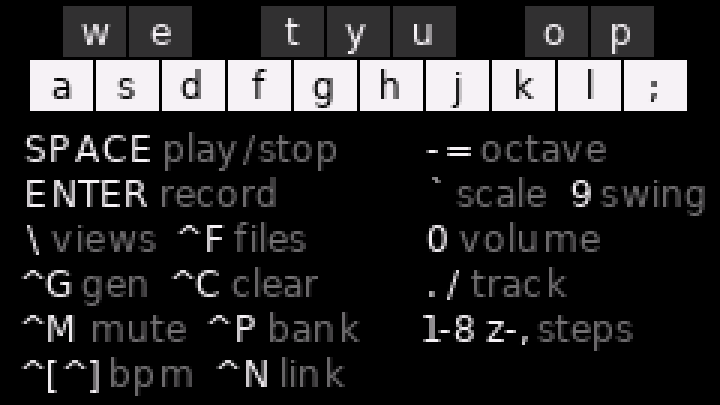
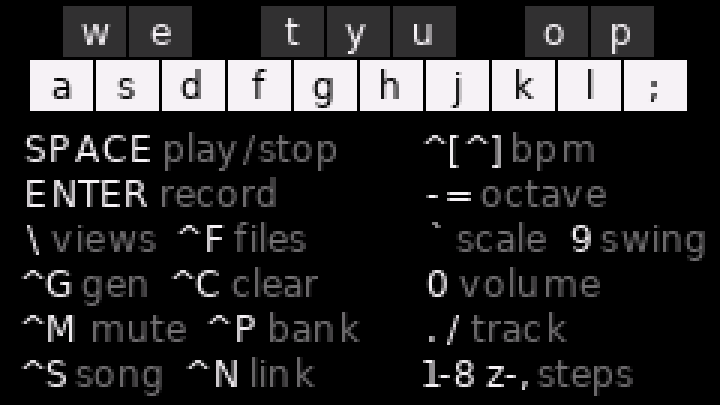
opcp_iface: the door an outside program comes in by
There was already a surface here. It just had no name: one caller reached
into op-cp at 95 places across four modules, so op-cp could not tell which
of its internals somebody else depended on, and the caller could not tell
which were safe. Two of them were not. The tiny-MHS layer was assigning
A.TRIM and C.CH_TRIM — module constants, one of them a dict in the file
whose own header says it holds no state — because that was the only way to
set a per-track gain. set_track_trim() and opcp_audio.set_trim() are where
that belongs, and both tables now move together, which they did not
reliably before: a caller that set one and not the other got a mix that
changed when the kit failed to load.

It sits BESIDE opcp_keys, not above it, and that is the whole design. The
human's keyboard and a program are siblings — two ways into the same
sequencer — so this speaks op-cp's language rather than a caller's.
changes() says "the volume moved", never "mix.master_gain changed".
Nothing in op-cp imports it; a standalone instrument never loads it.

changes() is a list rather than a method per field because the hand-written
version failed twice in one session, the same way both times: somebody adds
a key, forgets to mirror it, and a reading quietly disagrees with the
instrument. Once it was a muted device that still read as audible. Once it
was ctrl+S moving the banks with nothing in the log. Adding a field is one
entry in WATCHED now.
[…]

diff --git a/lib/opcp_iface.py b/lib/opcp_iface.py
@@ -1,0 +1,254 @@
+# OP-CP — the surface an outside program is allowed to drive.
+#
+# Everything here is something op-cp already did; nothing here is new
+# behaviour. What is new is that it has a NAME. Before this module the only
+# statement of "what can be driven from outside" was 95 references to
+# S.pat, Q.stop, C.VOLS and friends, spread through a caller's source — so
+# op-cp could not tell which of its internals were load-bearing for somebody
+# else, and a caller could not tell which were safe to touch. Two of them
+# were not: the tiny-MHS layer was assigning A.TRIM and C.CH_TRIM, module
+# constants in a file whose own docs say "no state". set_track_trim() is
+# where that belongs.
+#
+# This module does NOT import anything above op-cp and knows nothing about
+# who is calling. It is a lens on op-cp's own state in op-cp's own words —
+# "the volume moved", not "mix.master_gain changed". Whoever is driving is
+# responsible for translating that into their own vocabulary.
+#
+# Layering: sits beside opcp_keys, one above the sequencer. The human's
+# keyboard and an outside program are siblings, and this is the sibling's
+# door.
+
+import opcp_audio as A
+import opcp_conf as C
+import opcp_seq as Q
+from opcp_state import S
+
+
+# ------------------------------------------------------------------ reading
+
+def transport():
+    return {"playing": S.playing, "step": S.play_step,
+            "bpm": S.bpm, "swing": S.swing}
+
+
+def pattern():
+    return {"bank": S.pat, "banks": C.PATTERNS, "steps": C.STEPS,
+            "chain": S.chain}
+
+
+def steps(bank=None, track=None):
+    """One track of one bank, as a list. Defaults to what is selected."""
+    b = S.pat if bank is None else bank
+    t = S.track if track is None else track
+    return S.patterns[b][t]
+
+
+def music():
+    return {"root": S.root, "scale": C.SCALES[S.scale_i][0],
+            "octaves": list(S.octave)}
+
+
+def mix():
+    """Per-track mutes, and where the volume key currently stands.
+
+    `volume` is the index into the ladder, `gain` the fraction of full scale
+    it means. Index 0 is silence — the instrument can be muted from its own
+    keyboard, and a caller that reports otherwise is lying about a room.
+    """
+    return {"muted": list(S.muted), "volume": S.vol_i,
+            "steps": len(C.VOLS),
+            "gain": C.VOLS[S.vol_i] / float(C.VOLS[-1])}
+
+
+def storage():
+    """Where saves land, and which slots hold one.
+
+    `where` is decided once at startup and does not change if a card is
+    inserted later — worth reporting, because /flash does not survive a
+    firmware reflash and the card does.
+    """
+    return {"where": S.save_dir, "slots": C.SLOTS,
+            "used": [i + 1 for i, m in enumerate(S.slot_meta) if m]}
+
+
+def slot(n):
+    """What save slot `n` holds, or None if it is empty. 1-based, matching
+    the keys on the device.
+
+    The tempo comes back with it because "this slot is taken" is not enough
+    to decide with: a caller about to overwrite somebody's work can say
+    which work, and there is no undo.
+    """
+    i = n - 1
+    m = S.slot_meta[i] if 0 <= i < len(S.slot_meta) else None
+    if m is None:
+        return None
+    return {"bpm": m[0], "scale": m[1]}
+
+
+def audio():
+    """Whether this instrument currently sounds like itself.
+
+    kit false means the PCM kit did not fit and op-cp fell back to square
+    waves: same pitches, same timing, every other reading still correct.
+    Nothing else reports it.
+    """
+    return {"kit": A.kit_ok, "note": getattr(A, "kit_note", ""),
+            "link": bool(S.link_on)}
+
+
+def styles():
+    return [p[0] for p in C.PRESETS]
+
+
+# ------------------------------------------------------------------ writing
+# Nothing here validates a range: op-cp's own keys do not either, and a
+# caller that needs bounds has a table of its own to enforce them in. What
+# these DO own is the mechanism — which fields move together, and what has
+# to be marked dirty so the screen agrees with the sound.
+
+def set_bpm(bpm):
+    S.bpm = bpm
+    S.set_hero("BPM", bpm)
+
+
+def set_swing(on):
+    S.swing = bool(on)
+
+
+def set_bank(bank):
+    """Select a bank by hand. Ends chaining, because asking for a bank
+    means that bank — the same rule ctrl+P follows."""
+    S.pat = bank
+    S.chain = False
+
+
+def set_chain(on):
+    S.chain = bool(on)
+
+
+def set_mute(track, muted):
+    S.muted[track] = bool(muted)
+
+
+def set_track_trim(track, gain):
+    """Per-track gain in the mixer.
+
+    balance() consults trim_for(channel) on every step and channel N is
+    track N, so replacing the trim is the whole mechanism. Two tables move
+    together: A.TRIM is what the PCM path reads, C.CH_TRIM what the tone()
+    fallback reads. They were being assigned from outside op-cp, which meant
+    the caller had to know both — including that one of them is a dict in
+    the constants module. It is this module's job to know that instead.
+    """
+    A.set_trim(track, gain)
+
+
+def set_steps(bank, track, values):
+    """Write sixteen steps. `values` is a list of ints and Nones."""
+    S.patterns[bank][track][:] = values
+    S.dirty_body = True
+
+
+def redraw():
+    """Ask for the roll to be repainted on the next frame."""
+    S.dirty_body = True
+
+
+# ------------------------------------------------------------------ doing
+
+def start():
+    Q.start()
+
+
+def stop():
+    Q.stop()
+
+
+def generate(track=None):
+    """Re-roll one track with op-cp's own generator, leaving the selected
+    track where it was."""
+    if track is None:
+        Q.generate()
+        return
+    prev, S.track = S.track, track
+    try:
+        Q.generate()
+    finally:
+        S.track = prev
+
+
+def load_style(name, bank=None):
+    """Drop a factory pattern into a bank. Returns False for a name op-cp
+    does not have — it cannot invent one."""
+    names = styles()
+    if name not in names:
+        return False
+    prev = S.pat
+    if bank is not None:
+        S.pat = bank
+    try:
+        Q.load_preset(names.index(name))
+    finally:
+        S.pat = prev if bank is not None else S.pat
+    S.dirty_body = True
+    return True
+
+
+def save(slot):
+    """Write a slot, 1-based. Returns True only if the file is there
+    afterwards — Q.save_slot reports failure by painting the screen, which
+    serves the person holding the device and tells a program nothing."""
+    i = slot - 1
+    Q.save_slot(i)
+    return S.slot_meta[i] is not None
+
+
+def load(slot):
+    """Read a slot, 1-based. False when it is empty; Q.load_slot's own
+    answer to that is a status line, for the same reason."""
+    i = slot - 1
+    if S.slot_meta[i] is None:
+        return False
+    Q.load_slot(i)
+    S.dirty_body = True
+    S.set_hero("BPM", S.bpm)
+    return True
+
+
+# ------------------------------------------------------------------ changes
+# The keyboard and an outside program are siblings, and only one of them
+# reports what it did. Without this, anything watching op-cp has to
+# hand-write a comparison per field, and the failure is silent and
+# characteristic: somebody adds a key, forgets the mirror, and a reading
+# quietly disagrees with the instrument. That happened twice here — a muted
+# device that still read as audible, and ctrl+S moving the banks with
+# nothing in the log.
+#
+# WATCHED is the list, so adding a field is one entry rather than one more
+# method somebody has to remember to write.
+
+WATCHED = ("volume", "bank", "chain", "bpm", "swing", "playing", "muted")
+
+
+def snapshot():
+    return (S.vol_i, S.pat, S.chain, S.bpm, S.swing, S.playing,
+            tuple(S.muted))
+
+
+def changes(prev):
+    """What moved since `prev`, and a fresh snapshot to keep.
+
+    Returns (names, snapshot). The caller holds the snapshot rather than
+    this module, so two watchers cannot steal each other's changes — and
+    the first call, with prev None, reports nothing rather than everything.
+    """
+    now = snapshot()
+    if prev is None:
+        return (), now
+    moved = []
+    for i in range(len(WATCHED)):
+        if prev[i] != now[i]:
+            moved.append(WATCHED[i])
+    return tuple(moved), now

diff --git a/selftest.py b/selftest.py
@@ -241,6 +241,35 @@ S.recording = False
 S.track = 0
 S.view = C.V_ROLL
 
+banner("interface")
+# opcp_iface is the door an outside program comes in by. op-cp does not
+# import it, so nothing else here would notice it rotting.
+import opcp_iface as I
+import opcp_audio as A
+for _fn in ("transport", "pattern", "music", "mix", "storage", "audio",
+            "styles", "snapshot"):
+    check(callable(getattr(I, _fn, None)), "opcp_iface.%s() exists" % _fn)
+_t = I.transport()
+check(set(_t) == {"playing", "step", "bpm", "swing"}, "transport() shape")
+check(I.mix()["steps"] == len(C.VOLS), "mix() knows the volume ladder")
+check(I.mix()["gain"] <= 1.0, "mix() gain is a fraction")
+check(I.pattern()["banks"] == C.PATTERNS, "pattern() knows the bank count")
+check(len(I.styles()) == len(C.PRESETS), "styles() lists the factory set")
+# changes(): silent first, then exactly what moved
+_names, _snap = I.changes(None)
+check(_names == (), "changes(None) reports nothing, not everything")
+_was = S.bpm
+I.set_bpm(_was + 7)
+_names, _snap = I.changes(_snap)
+check(_names == ("bpm",), "changes() saw the tempo and nothing else")
+I.set_bpm(_was)
+_names, _snap = I.changes(_snap)
+# trim goes through the interface, not by assigning someone's constants
+I.set_track_trim(2, 0.5)
+check(A.TRIM[2] == 0.5, "set_track_trim moved the PCM table")
+check(C.CH_TRIM[2] == 0.5, "set_track_trim moved the tone() fallback too")
+I.set_track_trim(2, 0.85)
+
 banner("sound")
 import opcp_audio as A
 print("  kit loaded:   %s  (%d sounds)" % (A.kit_ok, len(A.KIT)))

diff --git a/lib/opcp_audio.py b/lib/opcp_audio.py
@@ -161,6 +161,24 @@ def balance(chs):
         set_ch(c, min(C.MAX_CH_VOL, int(trim_for(c) * scale)))
 
 
+def set_trim(track, gain):
+    """Per-track gain, which balance() picks up on the next step.
+
+    Two tables, because there are two paths: TRIM is what the PCM mixer
+    reads, C.CH_TRIM what the tone() fallback reads, and a caller changing
+    one and not the other gets a mix that changes when the kit fails to
+    load. Callers used to assign both from outside — including CH_TRIM,
+    a dict in the constants module, which the layering says holds no state.
+    Knowing that is this module's job.
+    """
+    global TRIM
+    if 0 <= track < len(TRIM):
+        t = list(TRIM)
+        t[track] = gain
+        TRIM = tuple(t)
+    C.CH_TRIM[track] = gain
+
+
 def trim_for(c):
     return TRIM[c] if kit_ok and c < len(TRIM) else C.CH_TRIM.get(c, 1.0)
 

diff --git a/docs/architecture.md b/docs/architecture.md
@@ -27,6 +27,30 @@ Add a screen to `opcp_screen`, a binding to `opcp_keys`, a constant to
 `opcp_conf`. If a new module needs to be imported by something below it in that
 list, **the layering is wrong** — fix the layering, do not add a late import.
 
+## The door for a program
+
+`opcp_iface` is the surface an outside program drives, and it exists because
+the alternative was measured: before it, one caller reached into op-cp at 95
+places across four modules, and two of those were assignments to module
+constants — `A.TRIM` and `C.CH_TRIM`, in a file whose own header says it
+holds no state. Nothing declared that surface, so nothing could keep it.
+
+Three things follow from where it sits, beside `opcp_keys` rather than above
+it:
+
+- **It speaks op-cp's language.** `changes()` reports "the volume moved",
+  never "mix.master_gain changed". A caller translates into its own
+  vocabulary; op-cp does not learn one.
+- **Nothing in op-cp imports it.** A standalone instrument never loads the
+  module, and the keyboard path does not go through it.
+- **`changes()` is a list, not a set of methods.** Anything watching op-cp
+  used to hand-write one comparison per field, which fails the same way
+  every time: somebody adds a key, forgets the mirror, and a reading quietly
+  disagrees with the instrument. It happened twice — a muted device that
+  still read as audible, and ctrl+S moving the banks with nothing in the
+  log. Adding a field is now one entry in `WATCHED`.
+
+
 ## Two constraints that shape everything
 
 - **`app.py` must stay importable.** Everything lives behind

diff --git a/CLAUDE.md b/CLAUDE.md
@@ -60,8 +60,16 @@ Imports run strictly one way. If a new module needs to be imported by something
 below it in this list, fix the layering rather than adding a late import.
 
 ```
-opcp_conf -> opcp_state -> opcp_audio / opcp_ui -> opcp_screen -> opcp_seq -> opcp_keys -> app
+opcp_conf -> opcp_state -> opcp_audio / opcp_ui -> opcp_screen -> opcp_seq
+          -> opcp_keys / opcp_iface -> app
 ```
+
+`opcp_iface` sits BESIDE `opcp_keys`, not above it: the human's keyboard and
+an outside program are siblings, and each is one way into the same
+sequencer. It imports downward like everything else and knows nothing about
+who is calling — it is op-cp's own vocabulary ("the volume moved"), never a
+caller's ("this state changed"). Nothing in op-cp imports it; a standalone
+instrument simply does not load it.
 
 Add a screen to `opcp_screen`, a binding to `opcp_keys`, a constant to
 `opcp_conf`. Reasoning in [docs/architecture.md](docs/architecture.md).

diff --git a/docs/instrument.md b/docs/instrument.md
@@ -21,9 +21,16 @@ wipe a track:
 
 ```
 SPACE play/stop      ENTER record arm (live, quantized to 16ths)
-^G generate  ^C clear  ^M mute  ^P pattern bank  ^[ ^] tempo  ^F files  ^N link
+^G generate  ^C clear  ^M mute  ^P pattern bank  ^S song  ^N link
+^[ ^] tempo  ^F files
 - = octave   ` scale   9 swing  0 volume   . / track   \ next view
 ```
+
+**^S is the form.** A pattern is one bar and there are four of them, so
+without it three quarters of what you write is never heard. ^S steps to the
+next bank at every bar — 1, 2, 3, 4, back to 1 — and pressing it again
+returns to looping whichever bank is up. Picking a bank by hand with ^P ends
+it too, because asking for a bank means that bank.
 
 `ctrl` is read from the keyboard driver's cached pressed-key table, so testing it
 is a dict lookup rather than an I²C transaction; a keyboard without that API — a
